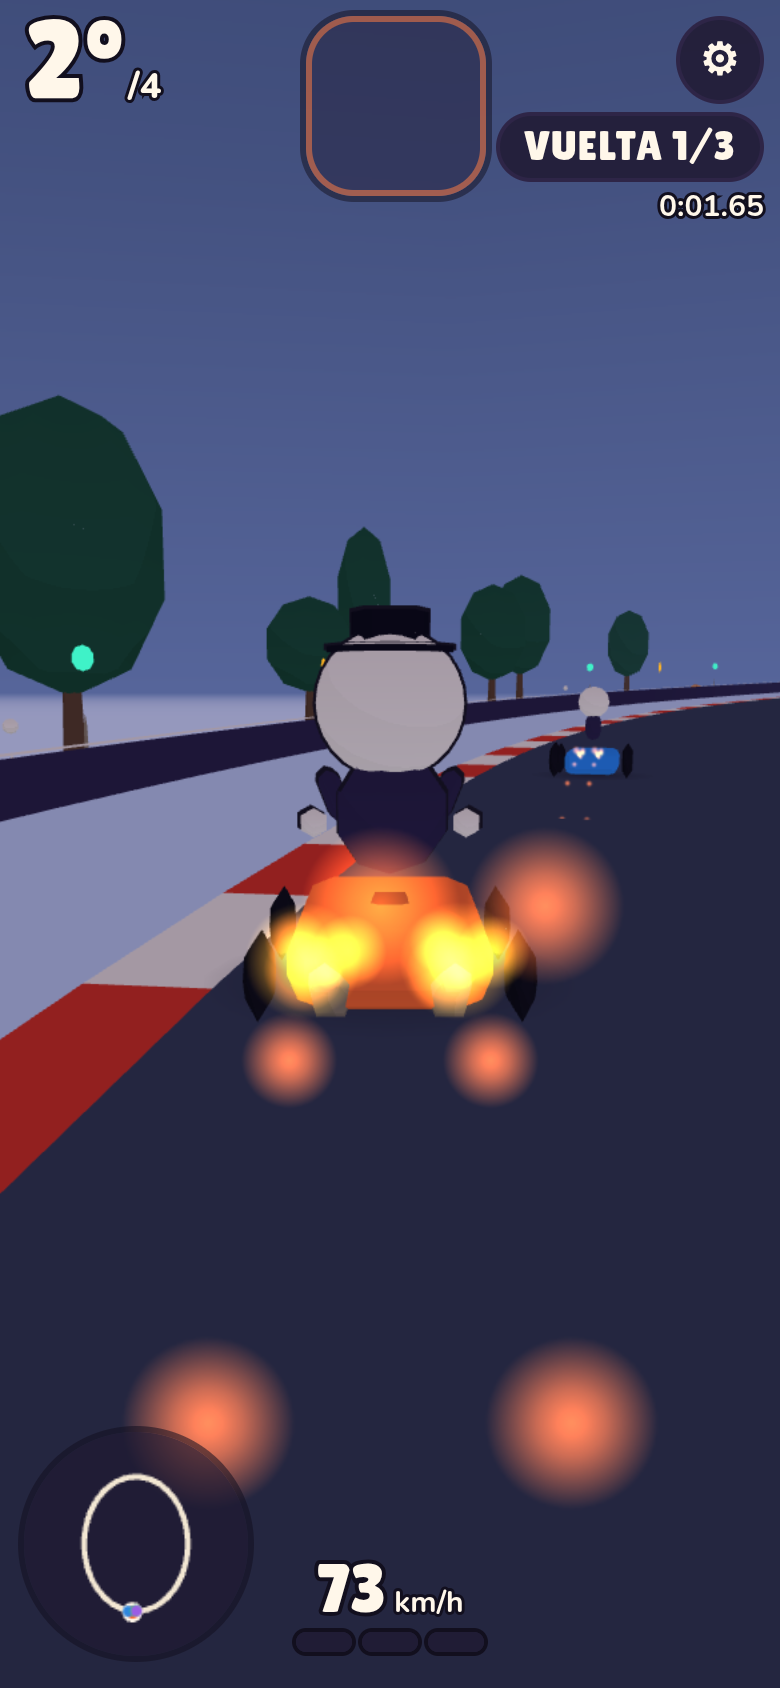
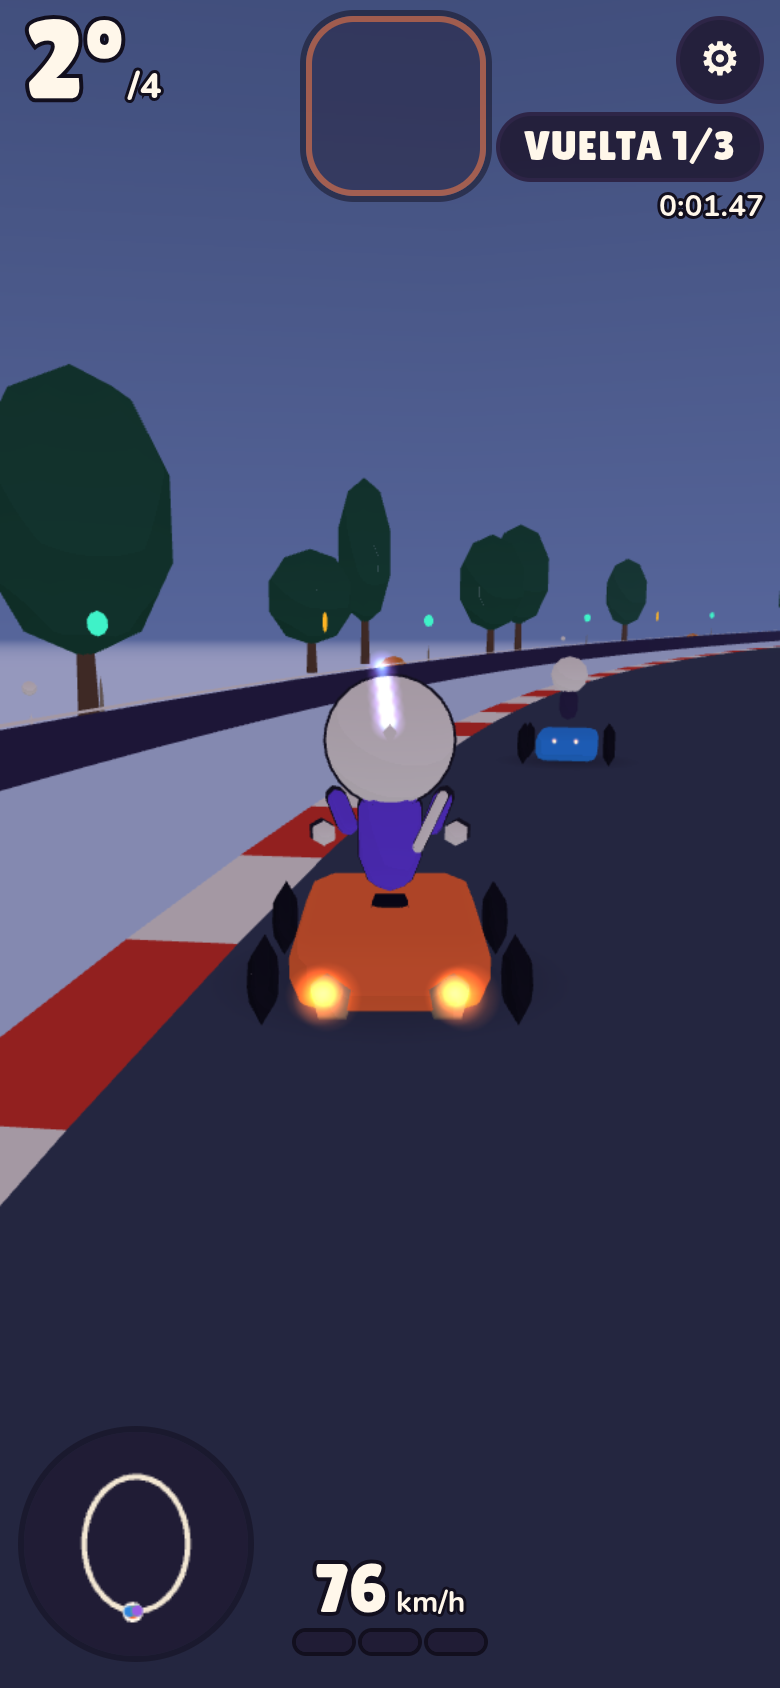
Carrera: llama corta en el escape y cámara un poco más alta
En reposo la llama mide un tercio del coche y sale hacia atrás. Lo que flota entre la cámara y el kart se apaga. Con turbo el coche se sigue viendo. La sonrisa de la calavera sigue un arco.

diff --git a/apps/client/src/render/flames.ts b/apps/client/src/render/flames.ts
@@ -11,8 +11,8 @@ function radialTexture(): THREE.CanvasTexture {
   c.width = c.height = 64;
   const g = c.getContext("2d")!;
   const grd = g.createRadialGradient(32, 32, 0, 32, 32, 30);
-  grd.addColorStop(0, "rgba(255,255,255,1)");
-  grd.addColorStop(0.4, "rgba(255,255,255,0.65)");
+  grd.addColorStop(0, "rgba(255,255,255,0.7)");
+  grd.addColorStop(0.45, "rgba(255,255,255,0.28)");
   grd.addColorStop(1, "rgba(255,255,255,0)");
   g.fillStyle = grd;
   g.fillRect(0, 0, 64, 64);
@@ -34,6 +34,7 @@ interface Slot {
   hex: number;
   size: number;
   life: number;
+  maxLife: number;
   spark: boolean;
   vx: number;
   vy: number;
@@ -47,6 +48,9 @@ export class Fire {
   private slots: Slot[] = [];
   private dummy = new THREE.Object3D();
   private color = new THREE.Color();
+  private cam = new THREE.Vector3();
+  private karts: THREE.Vector3[] = [];
+  private view = false;
 
   constructor(parent: THREE.Object3D) {
     const geo = new THREE.PlaneGeometry(1, 1);
@@ -76,6 +80,13 @@ export class Fire {
     parent.add(this.mesh);
   }
 
+  /** Cámara y karts de este fotograma, para apagar lo que flota delante del objetivo. */
+  setView(camera: THREE.Vector3, karts: THREE.Vector3[]) {
+    this.cam.copy(camera);
+    this.karts = karts;
+    this.view = true;
+  }
+
   /** Quita las llamas del fotograma anterior y se queda con las chispas vivas. */
   begin() {
     if (this.slots.length === 0) return;
@@ -86,7 +97,7 @@ export class Fire {
 
   flame(at: THREE.Vector3, hex: number, size: number) {
     if (this.slots.length >= MAX) return;
-    this.slots.push({ x: at.x, y: at.y, z: at.z, hex, size, life: 0, spark: false, vx: 0, vy: 0, vz: 0 });
+    this.slots.push({ x: at.x, y: at.y, z: at.z, hex, size, life: 0, maxLife: 0, spark: false, vx: 0, vy: 0, vz: 0 });
   }
 
   /** Chispa que ya nace con velocidad (la estela de la llama). */
@@ -98,7 +109,8 @@ export class Fire {
       z: at.z,
       hex,
       size,
-      life,
+      life: Math.min(0.25, life),
+      maxLife: Math.min(0.25, life),
       spark: true,
       vx: vel.x,
       vy: vel.y,
@@ -113,8 +125,9 @@ export class Fire {
         y: at.y,
         z: at.z,
         hex,
-        size: 0.1 + Math.random() * 0.08,
-        life: 0.32 * (0.65 + Math.random() * 0.5),
+        size: 0.08 + Math.random() * 0.05,
+        life: 0.22,
+        maxLife: 0.22,
         spark: true,
         vx: (Math.random() - 0.5) * speed,
         vy: speed * 0.35 + Math.random() * speed * 0.4,
@@ -123,25 +136,56 @@ export class Fire {
     }
   }
 
+  /**
+   * 0 si el sprite está pegado al objetivo o en el hueco entre la cámara y el kart.
+   * De ~2,6 m a ~3,4 m recupera el brillo. El tope 0,7 lo pone la textura.
+   */
+  private spriteFade(x: number, y: number, z: number) {
+    if (!this.view) return 1;
+    const dx = x - this.cam.x;
+    const dy = y - this.cam.y;
+    const dz = z - this.cam.z;
+    const dCam = Math.hypot(dx, dy, dz);
+    if (dCam < 2.2) return 0;
+    const near = Math.min(1, (dCam - 2.2) / 0.9);
+    let closest = Infinity;
+    let closestCam = Infinity;
+    for (const k of this.karts) {
+      const dk = Math.hypot(x - k.x, y - k.y, z - k.z);
+      if (dk < closest) {
+        closest = dk;
+        closestCam = Math.hypot(this.cam.x - k.x, this.cam.y - k.y, this.cam.z - k.z);
+      }
+    }
+    // Solo el hueco delante del objetivo, lejos del kart más cercano. La llama del escape se queda.
+    if (closest < Infinity && dCam + 0.25 < closestCam && closest > 2.4) return 0;
+    return near;
+  }
+
   end(dt: number) {
     const mesh = this.mesh;
     let n = 0;
     for (const s of this.slots) {
+      let age = 1;
       if (s.spark) {
         s.life -= dt;
         if (s.life <= 0) continue;
-        s.vy -= 12 * dt;
+        s.vy -= 5 * dt;
         s.x += s.vx * dt;
         s.y += s.vy * dt;
         s.z += s.vz * dt;
+        age = s.maxLife > 0 ? s.life / s.maxLife : 0;
       }
+      const fade = this.spriteFade(s.x, s.y, s.z) * age;
+      if (fade < 0.04) continue;
       if (n >= MAX) break;
       this.dummy.position.set(s.x, s.y, s.z);
-      this.dummy.scale.setScalar(Math.max(0.001, s.size));
+      this.dummy.scale.setScalar(Math.max(0.001, s.size * age));
       this.dummy.rotation.set(0, 0, 0);
       this.dummy.updateMatrix();
       mesh.setMatrixAt(n, this.dummy.matrix);
-      mesh.setColorAt(n, this.color.setHex(s.hex));
+      this.color.setHex(s.hex).multiplyScalar(fade);
+      mesh.setColorAt(n, this.color);
       n++;
     }
     mesh.count = n;
@@ -155,8 +199,9 @@ const _up = new THREE.Vector3(0, 1, 0);
 const _puff = new THREE.Vector3();
 
 /**
- * Cono de 8 (o 10 con turbo) sprites. `length` es el largo de la llama.
- * Reposo: núcleo Llama y borde Brasa. Turbo y derrape cargado: núcleo Espectro y borde Ánima.
+ * Llama pegada a la boca del escape, hacia atrás.
+ * En reposo mide ~0,35 del largo del coche y los sprites son pequeños.
+ * Con turbo llega a 1,2 y se queda translúcida (la textura tapa como mucho al 70 %).
  */
 export function paintExhaust(
   fire: Fire,
@@ -167,28 +212,29 @@ export function paintExhaust(
   time: number,
   dt = 0,
 ) {
-  const boost = mode !== "idle";
-  const core = boost ? PALETTE.espectro : PALETTE.llama;
-  const edge = boost ? PALETTE.anima : PALETTE.brasa;
-  const n = mode === "boost" ? 10 : 8;
+  const boost = mode === "boost";
+  const core = boost || mode === "drift" ? PALETTE.espectro : PALETTE.llama;
+  const edge = boost || mode === "drift" ? PALETTE.anima : PALETTE.brasa;
+  const n = boost ? 8 : 6;
   _side.set(dir.z, 0, -dir.x);
   if (_side.lengthSq() < 1e-4) _side.set(1, 0, 0);
   _side.normalize();
   for (let i = 0; i < n; i++) {
     const t = i / (n - 1);
-    const flicker = 0.78 + Math.sin(time * 28 + i * 1.7 + at.x) * 0.22;
-    const spread = t * length * 0.28 * flicker;
-    const ang = i * 2.2 + time * 9;
-    _puff.copy(at).addScaledVector(dir, t * length * (0.25 + 0.75 * flicker));
+    const flicker = 0.86 + Math.sin(time * 28 + i * 1.7 + at.x) * 0.14;
+    const along = t * length * flicker;
+    const spread = t * length * (boost ? 0.12 : 0.06);
+    const ang = i * 1.8 + time * 7;
+    _puff.copy(at).addScaledVector(dir, along);
     _puff.addScaledVector(_side, Math.cos(ang) * spread);
-    _puff.addScaledVector(_up, Math.sin(ang) * spread * 0.45 + t * length * 0.08);
-    const size = length * (0.16 + t * 0.42) * flicker;
-    fire.flame(_puff, i % 2 === 0 ? core : edge, size);
+    _puff.addScaledVector(_up, Math.sin(ang) * spread * 0.25);
+    const size = length * (boost ? 0.12 + t * 0.16 : 0.28 + t * 0.32) * flicker;
+    fire.flame(_puff, t < 0.45 ? core : edge, size);
   }
-  if (dt > 0 && Math.floor(time * 14) !== Math.floor((time - dt) * 14)) {
-    _puff.copy(at).addScaledVector(dir, length * 0.72);
-    _side.copy(dir).multiplyScalar(length * 1.4);
-    fire.puff(_puff, edge, _side, length * 0.28, 0.38);
+  if (dt > 0 && Math.floor(time * 12) !== Math.floor((time - dt) * 12)) {
+    _puff.copy(at).addScaledVector(dir, length * 0.55);
+    _side.copy(dir).multiplyScalar(length * 0.6);
+    fire.puff(_puff, edge, _side, length * (boost ? 0.12 : 0.07), 0.22);
   }
 }
 
@@ -197,6 +243,6 @@ export function paintHair(fire: Fire, at: THREE.Vector3, spectral: boolean, time
   const core = spectral ? PALETTE.espectro : PALETTE.llama;
   const edge = spectral ? PALETTE.anima : PALETTE.brasa;
   const flicker = 0.85 + Math.sin(time * 20 + at.y * 4) * 0.15;
-  fire.flame(at, core, 0.22 * scale * flicker);
-  fire.flame(at, edge, 0.4 * scale * flicker);
+  fire.flame(at, core, 0.14 * scale * flicker);
+  fire.flame(at, edge, 0.24 * scale * flicker);
 }

diff --git a/apps/client/src/game/raceSession.ts b/apps/client/src/game/raceSession.ts
@@ -626,16 +626,16 @@ export function createRaceSession(view: GameView, opts: SessionOptions): RaceSes
   // --- Dibujo ---
   const wheelWorld = new THREE.Vector3();
   const flameDir = new THREE.Vector3();
-  const localFlame = new THREE.Vector3(0, 0.42, -1).normalize();
+  const localFlame = new THREE.Vector3(0, 0.28, -1).normalize();
   function paintKartFire(
     m: KartModel,
     view: { driftDir: number; level: number; spinning: boolean; boosting: boolean },
     time: number,
     dt: number,
   ) {
-    const grow = m.mood === "celebrate" ? 1.25 : 1;
+    const grow = 1;
     const mode = view.boosting ? "boost" : view.driftDir !== 0 && view.level > 0 ? "drift" : "idle";
-    const reach = (mode === "boost" ? 1.2 : mode === "drift" ? 0.9 : 0.6) * (m.detail ? 1 : 0.45);
+    const reach = (mode === "boost" ? 1.2 : mode === "drift" ? 0.45 : 0.35) * (m.detail ? 1 : 0.4);
     for (const a of m.exhausts) {
       a.updateWorldMatrix(true, false);
       flameDir.copy(localFlame).transformDirection(a.matrixWorld);
@@ -824,9 +824,13 @@ export function createRaceSession(view: GameView, opts: SessionOptions): RaceSes
     if (online) syncNetItems();
     itemsView.update(world, dt);
     for (const tail of itemsView.flamePoints()) {
-      fire.flame(tail, PALETTE.llama, 0.22);
-      fire.flame(tail, PALETTE.brasa, 0.4);
+      fire.flame(tail, PALETTE.llama, 0.14);
+      fire.flame(tail, PALETTE.brasa, 0.22);
     }
+    const seen: THREE.Vector3[] = [];
+    for (const r of locals) seen.push(r.model.root.position);
+    for (const r of remotes) if (r.model.root.visible) seen.push(r.model.root.position);
+    fire.setView(camera.position, seen);
     fire.end(dt);
 
     const me = player.race.state;

diff --git a/apps/client/src/render/kartModel.ts b/apps/client/src/render/kartModel.ts
@@ -319,11 +319,20 @@ function skull(p: Parts, r: number, scale: Vec3 = [1, 1, 1]) {
   p.ball(r * 0.07, SOMBRA, [-r * 0.065 * sx, ny + r * 0.045, nz], undefined, [4, 3]);
   p.ball(r * 0.07, SOMBRA, [r * 0.065 * sx, ny + r * 0.045, nz], undefined, [4, 3]);
   p.cone(r * 0.07, r * 0.13, SOMBRA, [0, ny - r * 0.04, nz], [Math.PI, 0, 0]);
-  // Boca oscura y dientes de hueso.
-  p.torus(r * 0.26, r * 0.05, SOMBRA, [0, -r * 0.34 * sy, r * 0.72 * sz], [0.25, 0, Math.PI], Math.PI);
+  // Sonrisa en arco: el centro baja y las comisuras suben, sobre la curva de la cara.
+  const mouthY = -r * 0.3 * sy;
+  const mouthZ = r * 0.8 * sz;
+  p.torus(r * 0.2, r * 0.03, SOMBRA, [0, mouthY, mouthZ], [0.2, 0, Math.PI], Math.PI * 0.85);
   for (let i = 0; i < 4; i++) {
-    const a = -0.55 + (i / 3) * 1.1;
-    p.ball(r * 0.04, HUESO, [Math.sin(a) * r * 0.2, -r * 0.38 * sy, r * 0.9 * sz], [0.7, 1.15, 0.55], [4, 3]);
+    const a = -0.95 + (i / 3) * 1.9;
+    const bow = Math.cos(a);
+    p.ball(
+      r * 0.035,
+      HUESO,
+      [Math.sin(a) * r * 0.18 * sx, mouthY - bow * r * 0.08 * sy, mouthZ + bow * r * 0.05 * sz],
+      [0.7, 1.25, 0.5],
+      [4, 3],
+    );
   }
 }
 

diff --git a/apps/client/src/render/garagePreview.ts b/apps/client/src/render/garagePreview.ts
@@ -99,12 +99,12 @@ export class GaragePreview {
       this.cheer = Math.max(0, this.cheer - dt);
       this.model.setMood(this.cheer > 0 ? "celebrate" : "idle", this.time);
       const dir = this.flameAt;
-      const local = new THREE.Vector3(0, 0.42, -1).normalize();
+      const local = new THREE.Vector3(0, 0.28, -1).normalize();
       for (const a of this.model.exhausts) {
         a.updateWorldMatrix(true, false);
         const at = a.getWorldPosition(new THREE.Vector3());
         dir.copy(local).transformDirection(a.matrixWorld);
-        paintExhaust(this.fire, at, dir, this.model.flameLength * 0.55, "idle", this.time, dt);
+        paintExhaust(this.fire, at, dir, this.model.flameLength * 0.35, "idle", this.time, dt);
       }
       for (const a of this.model.ornaments) paintHair(this.fire, a.getWorldPosition(new THREE.Vector3()), this.model.ornamentSpectral, this.time, 1.2);
     }

diff --git a/apps/client/src/render/chaseCamera.ts b/apps/client/src/render/chaseCamera.ts
@@ -14,7 +14,7 @@ export const CAMERA = {
    * Más cerca y más baja que antes; el campo de visión apenas crece.
    */
   portraitExtraFov: 4,
-  portraitHeight: 2.05,
+  portraitHeight: 2.45,
   portraitDistance: 4.2,
 };
 
@@ -38,7 +38,7 @@ export class ChaseCamera {
     const dist = (portrait ? CAMERA.portraitDistance : CAMERA.distance) + speedRatio * (portrait ? 0.35 : 1.2);
     const height = portrait ? CAMERA.portraitHeight : CAMERA.height;
     const targetPos = new THREE.Vector3(x - fx * dist, y + height, z - fz * dist);
-    const targetLook = new THREE.Vector3(x + fx * CAMERA.lookAhead, y + (portrait ? 0.5 : 0.8), z + fz * CAMERA.lookAhead);
+    const targetLook = new THREE.Vector3(x + fx * CAMERA.lookAhead, y + (portrait ? 0.28 : 0.8), z + fz * CAMERA.lookAhead);
 
     if (!this.initialized) {
       this.pos.copy(targetPos);

diff --git a/apps/client/src/render/flames.test.ts b/apps/client/src/render/flames.test.ts
@@ -33,7 +33,7 @@ describe("fuego aditivo", () => {
     fire.spark(at, 0xffb423, 4);
     fire.end(0.016);
     expect(scene.children.filter((o) => (o as THREE.InstancedMesh).isInstancedMesh)).toHaveLength(1);
-    expect(fire.mesh.count).toBe(12);
+    expect(fire.mesh.count).toBe(10);
     const mat = fire.mesh.material as THREE.MeshBasicMaterial;
     expect(mat.blending).toBe(THREE.AdditiveBlending);
     expect(mat.depthWrite).toBe(false);
@@ -42,7 +42,7 @@ describe("fuego aditivo", () => {
     paintExhaust(fire, at, dir, 2.4, "boost", 0.2);
     fire.end(0.5);
     // El turbo sigue siendo la misma malla; las chispas de antes ya se apagaron.
-    expect(fire.mesh.count).toBe(10);
+    expect(fire.mesh.count).toBe(8);
     expect(scene.children).toHaveLength(1);
   });
 });
